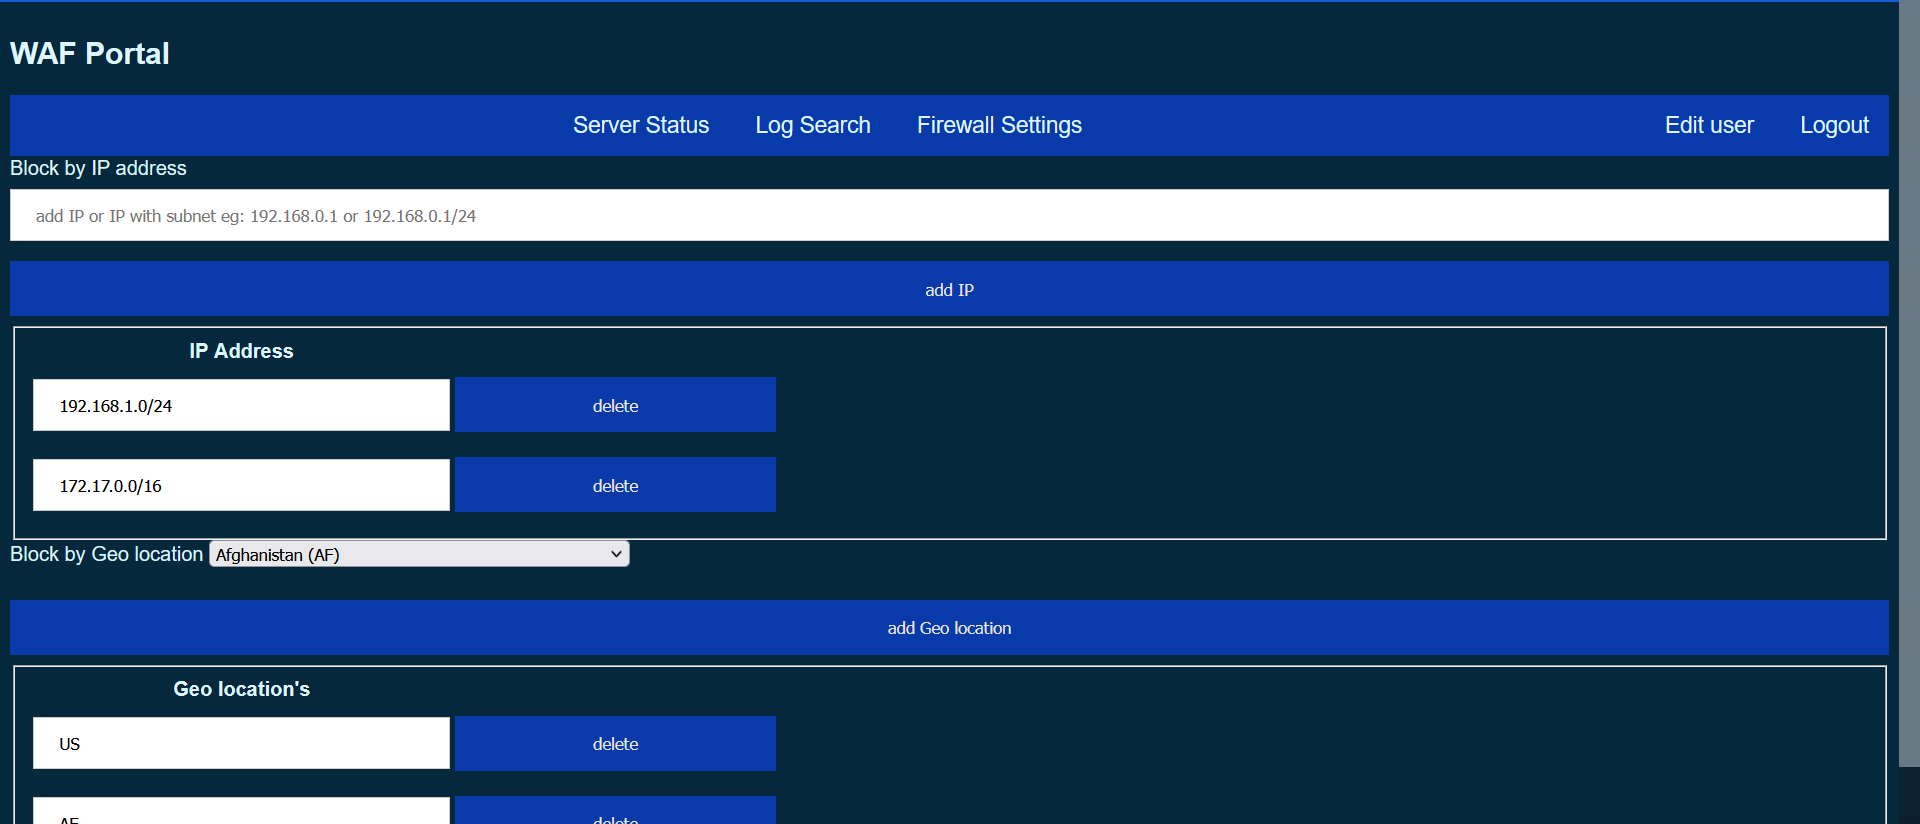
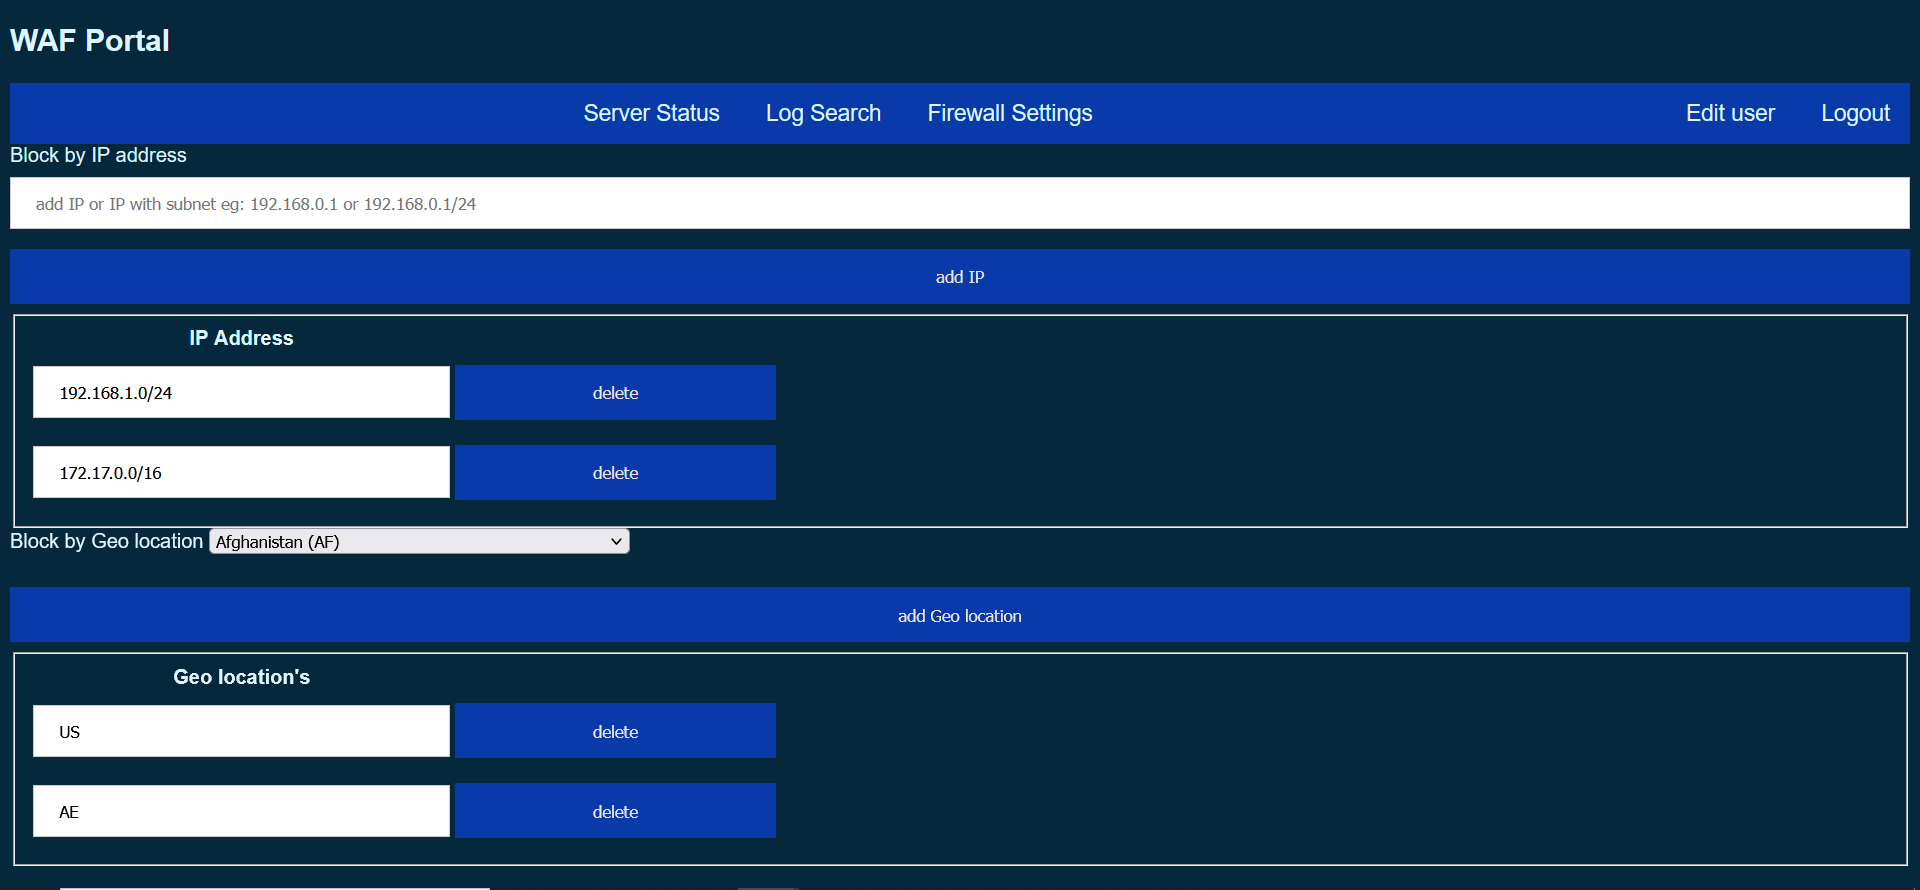
spellcheck changes, image uploads and readme updates

diff --git a/web_application_firewall/portal/templates/firewall.html b/web_application_firewall/portal/templates/firewall.html
@@ -18,7 +18,7 @@
 		<a href="logsearch.html">Log Search</a>
 		<a href="firewall.html">Firewall Settings</a>
 		<div class="nav2">
-			<a href="edituser.html">Edit user</a>
+			<a href="edituser.html">Edit User</a>
 			<a href="{{url_for('logout')}}">Logout</a>
 		</div>
 	</nav>
@@ -60,14 +60,14 @@
 		</fieldset>
 		
 		<form action="{{url_for('blacklistGEO')}}" method="POST">
-			<label for="geoip_blacked" class="formbuilder-text-label">Block by Geo location</label>
+			<label for="geoip_blacked" class="formbuilder-text-label">Block by Geolocation</label>
 			<select name="geoip_blacked" id="geoip_blacked">
 				{% for x in results_3 %}
 					<option value="{{x['Code']}}" name="geoip_blacked">{{x['Name']}} ({{x['Code']}})</option>
 				{% endfor %}
 			</select>
 			<br><br>
-			<button type="submit">add Geo location</button>
+			<button type="submit">add Geolocation</button>
 		</form>
 
 		<fieldset>
@@ -78,7 +78,7 @@
 				</colgroup>
 				<thead>
 				<tr>
-					<th>Geo location's</th>
+					<th>Geolocation's</th>
 				</tr>
 				</thead>
 				<tbody>

diff --git a/web_application_firewall/portal/templates/logsearch.html b/web_application_firewall/portal/templates/logsearch.html
@@ -18,7 +18,7 @@
 	<a href="logsearch.html">Log Search</a>
 	<a href="firewall.html">Firewall Settings</a>
 	<div class="nav2">
-		<a href="edituser.html">Edit user</a>
+		<a href="edituser.html">Edit User</a>
 		<a href="{{url_for('logout')}}">Logout</a>
 	</div>
 </nav>
@@ -93,11 +93,11 @@
 				<tr>
 					<th>IP Address</th>
 					<th>Time</th>
-					<th>HTTP referrer</th>
+					<th>HTTP Referrer</th>
 					<th>Status</th>
 					<th>Request</th>
 					<th>Path</th>
-					<th>User_agent</th>
+					<th>User Agent</th>
 				</tr>
 			</thead>
 			<tbody>

diff --git a/web_application_firewall/portal/static/css/main.css b/web_application_firewall/portal/static/css/main.css
@@ -86,7 +86,7 @@ span.pword {
 }
 
 .tg  {border-collapse:collapse;border-spacing:0;}
-.tg td{border-color:black;border-style:solid;border-width:1px;font-family:Arial, sans-serif;font-size:14px;
+.tg td{border-color:black;border-style:solid;border-width:1px;font-family:Arial, sans-serif;font-size:11px;
   overflow:hidden;padding:10px 5px;word-break:normal;}
 .tg th{border-color:black;border-style:solid;border-width:1px;font-family:Arial, sans-serif;font-size:14px;
   font-weight:normal;overflow:hidden;padding:10px 5px;word-break:normal;}

diff --git a/README.md b/README.md
@@ -56,8 +56,6 @@
 <!-- ABOUT THE PROJECT -->
 ## About The Project
 
-[![Product Name Screen Shot][product-screenshot]](https://example.com)
-
 This project is developed as part of the Swinburne 2022 Software Engineering Capstone. Group 41 have produced a containerised Web Application Firewall to meet the requirements of the client. This application is placed between the clients web applications and the end user. It intercepts traffic and detects malicious injections intended to compromise the clients web applications and redirects normal interactions to the correct endpoint.
 
 <p align="right">(<a href="#readme-top">back to top</a>)</p>
